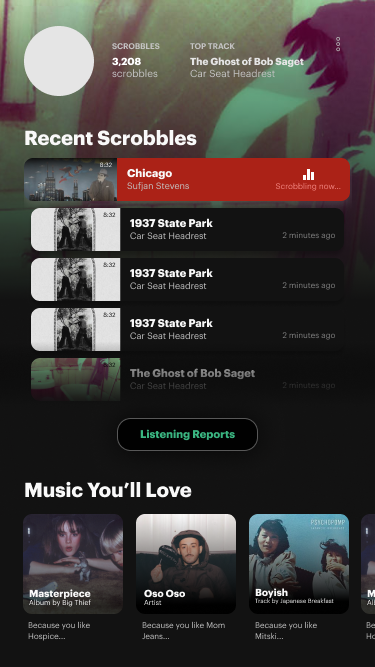
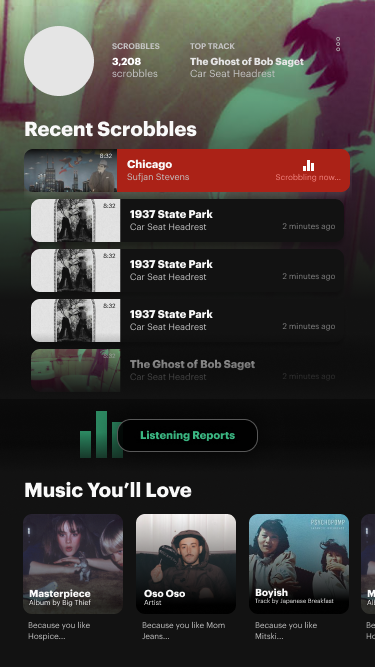
.....

diff --git a/public/work/lastfm.html b/public/work/lastfm.html
@@ -245,15 +245,19 @@
     <div class="col">
         <div class="col-half">
         <span class="image-container">
+            
+            <img class="image-full" src="../assets/portfolio/lastfm/lofi-home-3.png">
+            
+    <!--
               <video width="100%" autoplay loop style="padding:2em;">
       <source src="../assets/portfolio/lastfm/lofi-home.mp4" type="video/mp4">
     Your browser does not support the video tag.
-    </video>
+    </video>-->
 
             <em>New app home (mid-fi)</em>
         </span>
             
-        <p><strong>HOME</strong>&mdash;Previously, the app home only displayed recent scrobbles that took over the entire screen. now, a redesigned home gives the user a glimpse into their profile and music recommendations&mdash;one of the most loved features available on the web at.</p>
+        <p><strong>HOME</strong>&mdash;Previously, the app home only displayed recent scrobbles that took over the entire screen. Now, a redesigned home gives the user a glimpse into their profile, listening report, and music recommendations.</p>
             
             
 
@@ -287,13 +291,13 @@
             
 
                     
-        <p><strong>TOP MUSIC</strong>&mdash;Views for the user's listening history are largely the same. Instead of the dropdown, I opted to make the three history levels (weekly, monthly, and annually) more distinct.</p>
+        <p><strong>TOP MUSIC</strong>&mdash;Views for the user's listening history are largely the same. Instead of the dropdown, I opted to make the three history levels (weekly, monthly, and annually) more distinct. <br>Next, a swipe interaction easily swaps between top artists, albums, and tracks.</p>
             
         </div>        
         <div class="col-half">
         
        <span class="image-container">
-            <img class="image-full" src="../assets/portfolio/lastfm/lofi-tophistory.png">
+            <img class="image-full" src="../assets/portfolio/lastfm/lofi-tophistory-2.png">
             <em>New top music</em>
         </span>
                   
@@ -355,7 +359,7 @@
             
         <div class="image-container-tall">
             <em>Revised mid-fi artist page (scroll ↓)</em>
-            <img class="image-full" src="../assets/portfolio/lastfm/mid-artist-long.png">
+            <img class="image-full" src="../assets/portfolio/lastfm/lofi-artist-1.png">
         </div>
             
         </div>   
